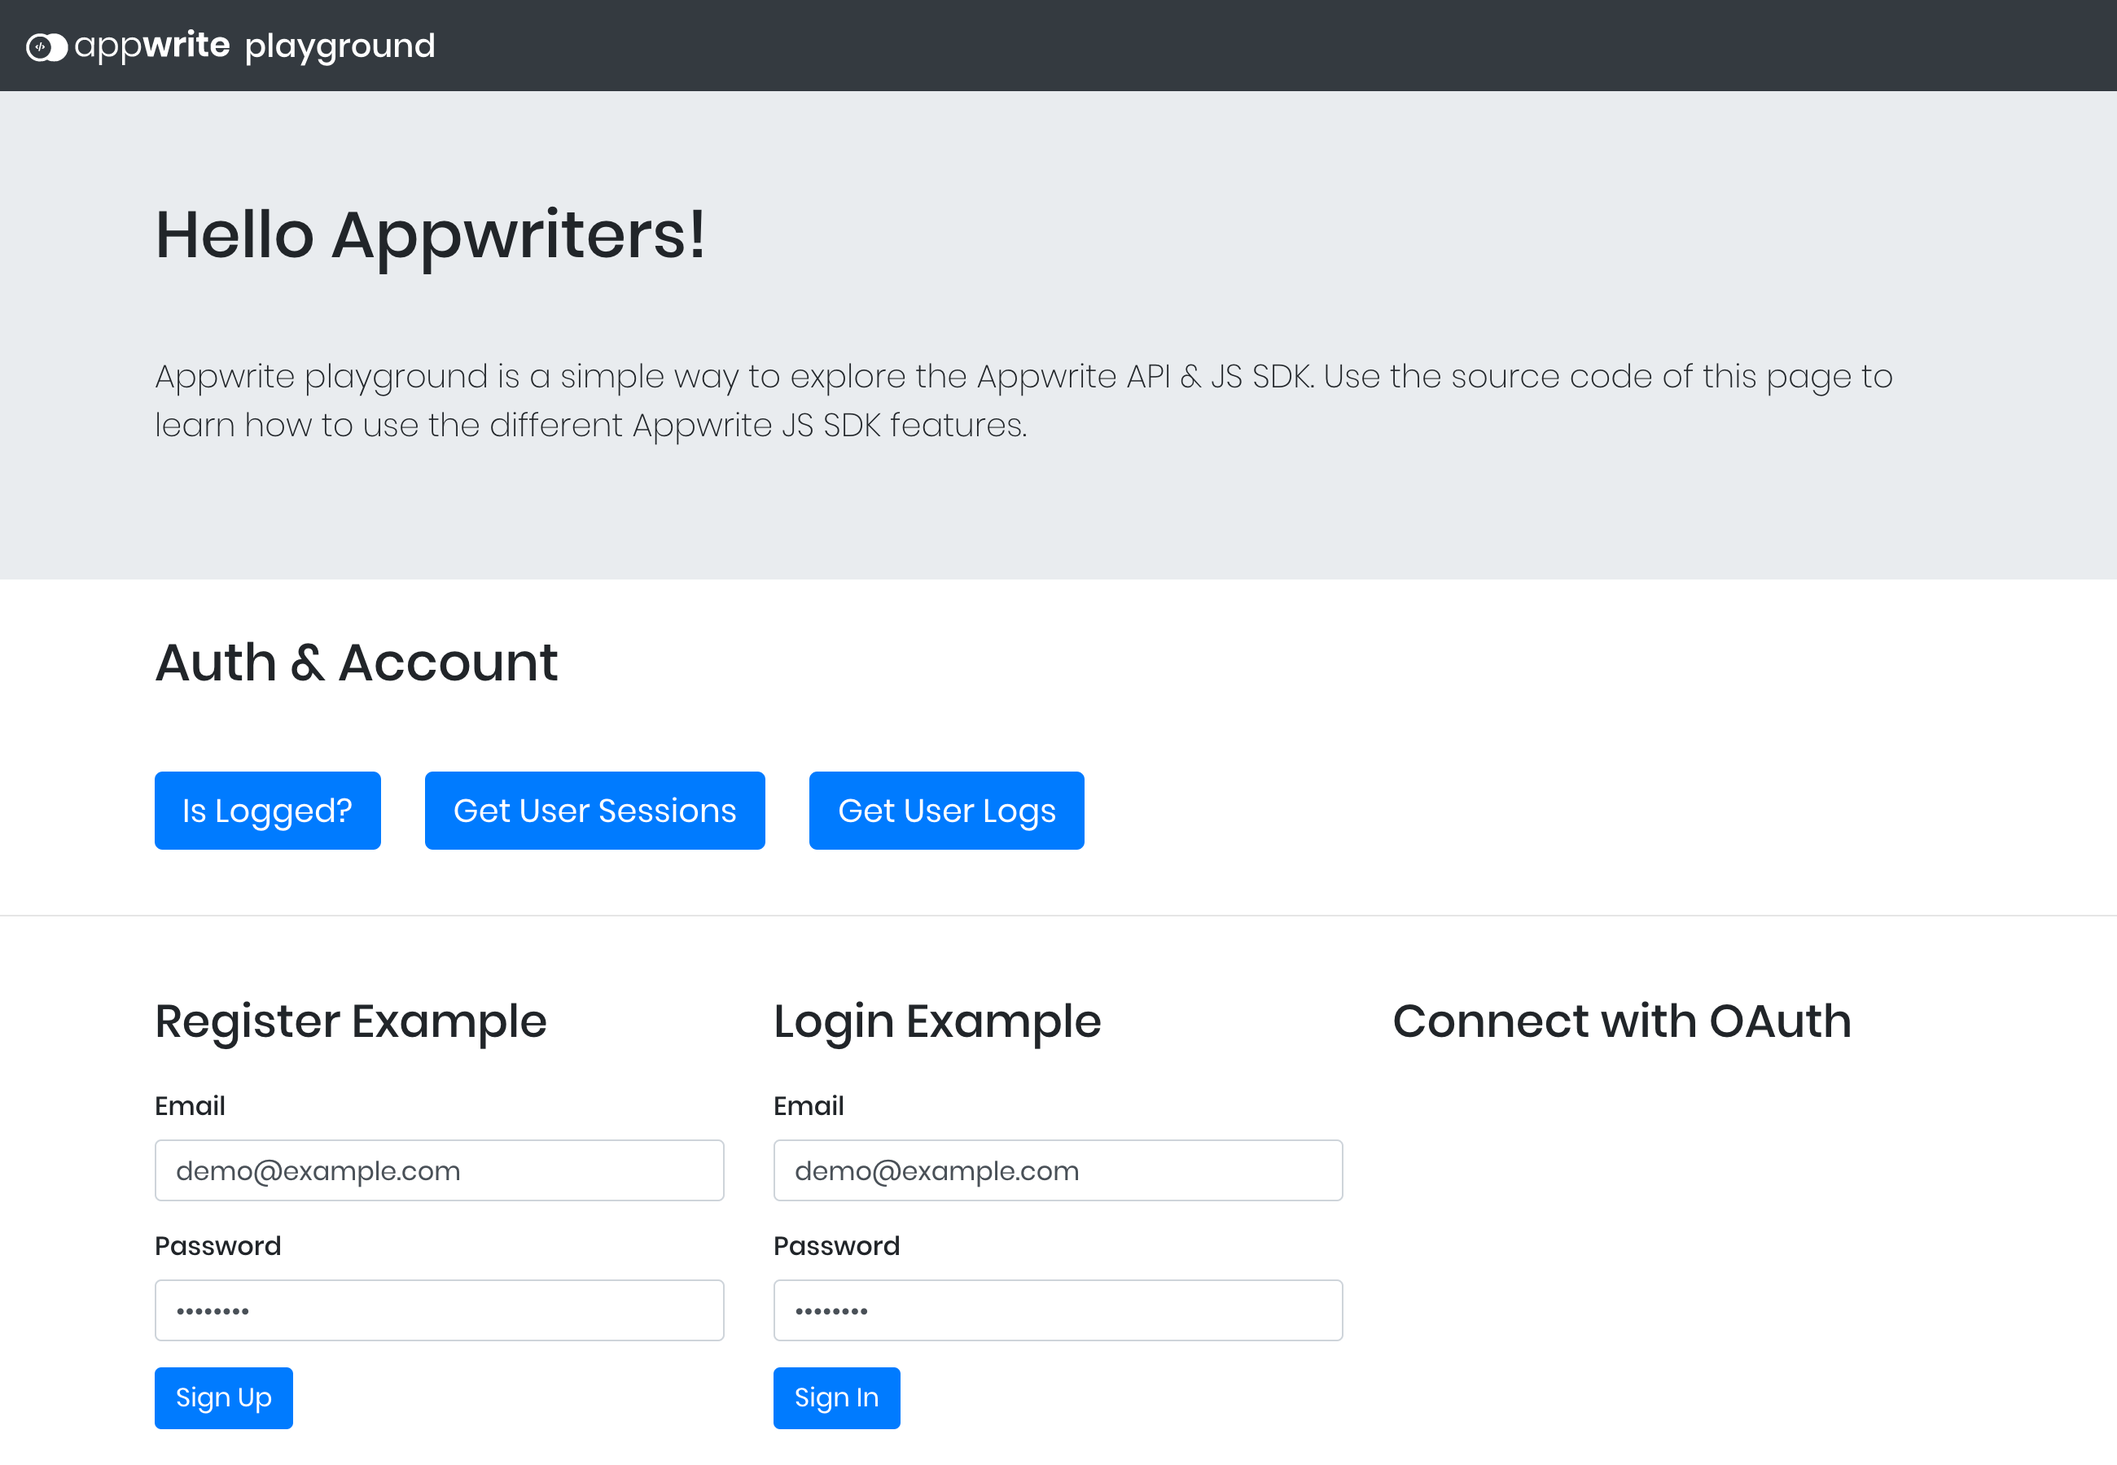
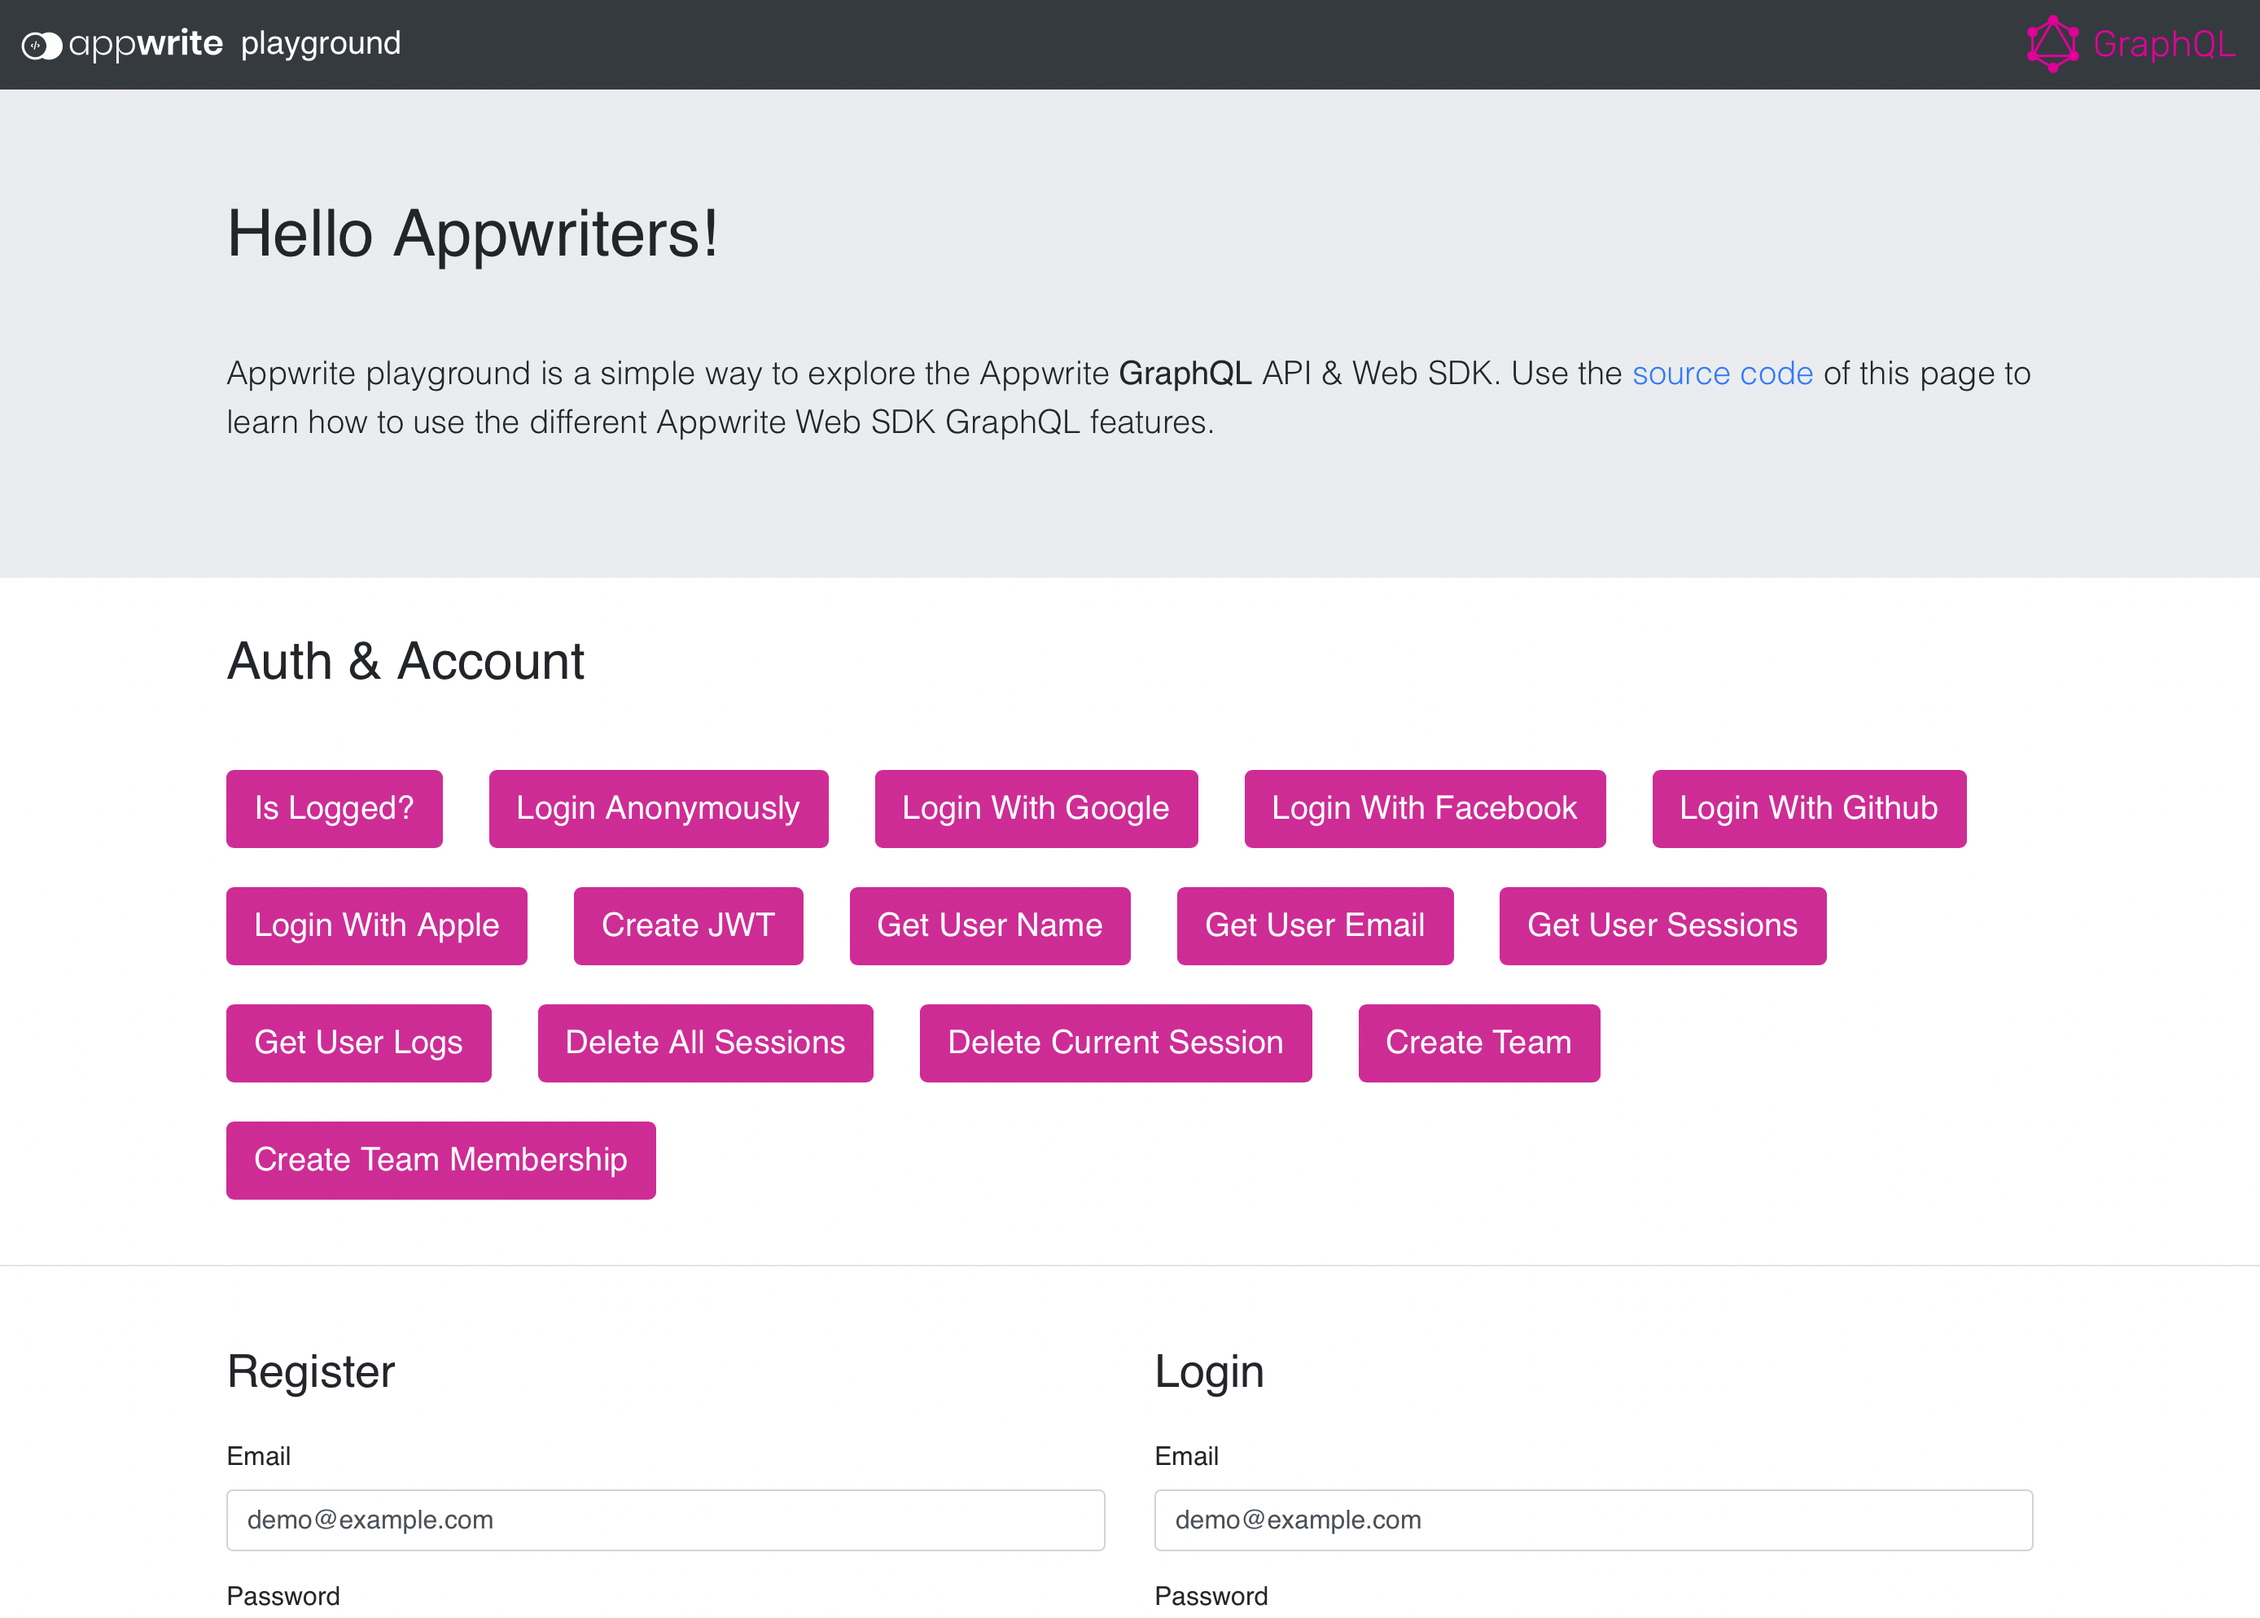
Updates

diff --git a/public/index.html b/public/index.html
@@ -11,6 +11,7 @@
         integrity="sha384-ggOyR0iXCbMQv3Xipma34MD+dH/1fQ784/j6cY/iJTQUOhcWr7x9JvoRxT2MZw1T" crossorigin="anonymous" />
     <link href="https://fonts.googleapis.com/css?family=Poppins:100,300,400,500,600,800" />
     <link rel="icon" type="image/png" href="https://appwrite.io/images/favicon.png?v=1" />
+    <link rel="stylesheet" href="stylesheet.css" />
 
     <style>
         body {
@@ -29,6 +30,7 @@
     <nav class="navbar navbar-dark bg-dark">
         <a class="navbar-brand" href="#"><img src="https://appwrite.io/images/appwrite-white.svg" height="22" />
             &nbsp;playground</a>
+        <a href="https://graphql.org"><img src="images/graphql.svg" height="36"/></a>
     </nav>
     <div class="jumbotron jumbotron-fluid">
         <div class="container">
@@ -36,10 +38,10 @@
             <p class="lead">
                 Appwrite playground is a simple way to explore the Appwrite <b>GraphQL</b> API & Web
                 SDK. Use the
-                <a href="https://github.com/appwrite/playground-for-js/blob/master/public/index.html"
+                <a href="https://github.com/appwrite/playground-for-web-graphql/blob/master/public/index.html"
                     target="_blank">source code</a>
                 of this page to learn how to use the different Appwrite Web SDK
-                features.
+                GraphQL features.
             </p>
         </div>
     </div>
@@ -361,13 +363,7 @@
         }
 
         function loginAnonymously() {
-            graphql.mutate({
-                query: `mutation {
-                    accountCreateAnonymousSession {
-                        _id
-                    }
-                }`
-            }).then(
+            graphql.mutate({ query: `mutation { accountCreateAnonymousSession { _id }}` }).then(
                 function (response) {
                     console.log(response);
                     alert("User logged in anonymously!");
@@ -380,13 +376,7 @@
         }
 
         function createJWT() {
-            graphql.mutate({
-                query: `mutation {
-                    accountCreateJWT {
-                        _id
-                    }
-                }`
-            }).then(
+            graphql.mutate({ query: `mutation { accountCreateJWT { secret }}` }).then(
                 function (response) {
                     console.log(response);
                     alert("JWT created!");
@@ -403,9 +393,7 @@
 
             graphql.mutate({
                 query: `mutation CreateEmailSession ($email: String!, $password: String!) {
-                    accountCreateEmailSession(email: $email, password: $password) {
-                        _id
-                    }
+                    accountCreateEmailSession(email: $email, password: $password) { _id }
                 }`,
                 variables: {
                     email: event.target.elements["login-email"].value,
@@ -427,13 +415,12 @@
         }
 
         function loginWithGoogle(event) {
-            //event.preventDefault();
             /**
              * Callback URLs are required for creating a browser
              *  session cookie due to some browsers 3rd party cookie policy limitations,
              *  this is not required for other client based platforms
              */
-            graphql.mutate({
+            graphql.query({
                 query: `query GoogleLogin ($provider: String!, $success: String, $failure: String) {
                     accountCreateOAuth2Session(provider: $provider, success: $success, failure: $failure)
                 }`,
@@ -460,7 +447,7 @@
              *  session cookie due to some browsers 3rd party cookie policy limitations,
              *  this is not required for other client based platforms
              */
-            graphql.mutate({
+            graphql.query({
                 query: `query FacebookLogin ($provider: String!, $success: String, $failure: String) {
                     accountCreateOAuth2Session(provider: $provider, success: $success, failure: $failure)
                 }`,
@@ -482,13 +469,12 @@
         }
 
         function loginWithGithub(event) {
-            event.preventDefault();
             /**
              * Callback URLs are required for creating a browser
              *  session cookie due to some browsers 3rd party cookie policy limitations,
              *  this is not required for other client based platforms
              */
-            graphql.mutate({
+            graphql.query({
                 query: `query FacebookLogin ($provider: String!, $success: String, $failure: String) {
                     accountCreateOAuth2Session(provider: $provider, success: $success, failure: $failure)
                 }`,
@@ -510,19 +496,14 @@
         }
 
         function loginWithApple(event) {
-            event.preventDefault();
             /**
              * Callback URLs are required for creating a browser
              *  session cookie due to some browsers 3rd party cookie policy limitations,
              *  this is not required for other client based platforms
              */
-            graphql.mutate({
-                query: `mutation AppleLogin (provider: String!, success: String, failure: String) {
-                    accountCreateOAuth2Session(
-                        provider: $provider,
-                        success: $success,
-                        failure: $failure,
-                    )
+            graphql.query({
+                query: `mutation AppleLogin ($provider: String!, $success: String, $failure: String) {
+                    accountCreateOAuth2Session(provider: $provider, success: $success, failure: $failure)
                 }`,
                 variables: {
                     provider: "apple",
@@ -542,11 +523,7 @@
         }
 
         function deleteSessions() {
-            graphql.mutate({
-                query: `mutation {
-                    accountDeleteSessions
-                }`
-            }).then(
+            graphql.mutate({ query: `mutation { accountDeleteSessions }` }).then(
                 function (response) {
                     console.log(response);
                     alert("Sessions deleted!");
@@ -559,11 +536,7 @@
         }
 
         function deleteCurrentSession() {
-            graphql.mutate({
-                query: `mutation {
-                    accountDeleteSession(sessionId: "current")
-                }`
-            }).then(
+            graphql.mutate({ query: `mutation { accountDeleteSession(sessionId: "current") }` }).then(
                 function (response) {
                     console.log(response);
                     alert("Current session deleted!");
@@ -686,10 +659,10 @@
                         };
                         ul.appendChild(li);
                     }
-                    console.log(response); // Success
+                    console.log(response);
                 },
                 function (error) {
-                    console.log(error); // Failure
+                    console.log(error);
                 }
             );
         }
@@ -712,11 +685,11 @@
                 }
             }).then(
                 function (response) {
-                    console.log(response); // Success
+                    console.log(response);
                     alert("File downloaded successfully");
                 },
                 function (error) {
-                    console.log(error); // Failure
+                    console.log(error);
                 }
             );
         }
@@ -731,7 +704,7 @@
                 }`
             }).then(
                 function (response) {
-                    console.log(response); // Success
+                    console.log(response);
                     alert(
                         "User is from " +
                         response.data.localeGet.country +
@@ -740,7 +713,7 @@
                     );
                 },
                 function (error) {
-                    console.log(error); // Failure
+                    console.log(error);
                 }
             );
         }
@@ -754,11 +727,11 @@
                 }`
             }).then(
                 function (response) {
-                    console.log(response); // Success
+                    console.log(response);
                     alert("User IP is " + response.data.localeGet.ip);
                 },
                 function (error) {
-                    console.log(error); // Failure
+                    console.log(error);
                 }
             );
         }
@@ -772,7 +745,7 @@
                 }`
             }).then(
                 function (response) {
-                    console.log(response); // Success
+                    console.log(response);
                     alert(
                         response.data.localeGet.eu
                             ? "User is a member of the EU"
@@ -780,7 +753,7 @@
                     );
                 },
                 function (error) {
-                    console.log(error); // Failure
+                    console.log(error);
                 }
             );
         }

diff --git a/test.js b/test.js
@@ -1,6 +1,6 @@
-const sdk = require('node-appwrite');
+const {Client,Account} = require("./public/sdk");
 
-const client = new sdk.Client();
+const client = new Client();
 
 client
     .setEndpoint('http://localhost/v1') // Your API Endpoint
@@ -8,9 +8,14 @@ client
[1 lines of base64/hex data omitted]
 ;
 
-let users = new sdk.Users(client);
+const account = new Account(client);
 
-let promise = users.get('623b66a849afa34b5d4e');
+let promise = account.create(
+    'unique()',
+    'test@appwrite.io',
+    'passwird',
+    'test'
+)
 
 promise.then(function (response) {
     console.log(response);

diff --git a/public/stylesheet.css b/public/stylesheet.css
@@ -1,0 +1,4 @@
+.btn-primary, .btn-primary:hover, .btn-primary:active, .btn-primary:visited {
+    background-color: #E10098 !important;
+    border-color: #E10098 !important;
+}

diff --git a/README.md b/README.md
@@ -1,1 +1,53 @@
-# playground-for-web-graphql
+# Appwrite's Web Playground with GraphQL
+
+
+Appwrite playground is a simple way to explore the Appwrite API & Web SDK **with GraphQL** . Use the source code of this page to learn how to use the different Appwrite GraphQL API features.
+
+![Appwrite Playground](preview.png)
+
+## Get Started
+
+The **public/index.html** file in this repository contains **all** the playground examples and source code.
+
+You can learn how to integrate your Appwrite Web SDK in your project and see how different features of the GraphQL API can be used via the SDK.
+
+This playground doesn't include any Appwrite best practices but rather intended to show the most simple examples and use cases of using the Appwrite API.
+
+### Installation
+
+`NOTE: Commands are to be executed on Linux, Mac, and Windows(using Powershell)`
+
+1. Fork this repository by clicking on the <a href="https://github.com/appwrite/playground-for-web/new/master?readme=1#fork-destination-box"><kbd><b>Fork</b></kbd></a> button.
+2. Clone the repo by running the command
+```sh
+$ git clone https://github.com/Your_Username/playground-for-web.git
+```
+3. Go inside the folder by command
+```sh
+$ cd playground-for-web-graphql
+```
+4. Run the command to install node modules
+```sh
+$ npm install
+```
+5. Start a web server by running using command
+```sh
+$ npm start
+```
+6. Access the url `http://localhost:8000` and start playing!
+
+> Don't forget to update Appwrite endpoint and project ID
+
+## Contributing
+
+All code contributions - including those of people having commit access - must go through a pull request and approved by a core developer before being merged. This is to ensure proper review of all the code.
+
+We truly ❤ pull requests! If you wish to help, you can learn more about how you can contribute to this project in the [contribution guide](https://github.com/appwrite/appwrite/blob/master/CONTRIBUTING.md).
+
+## Security
+
+For security issues, kindly email us [security@appwrite.io](mailto:security@appwrite.io) instead of posting a public issue in GitHub.
+
+## Follow Us
+
+Join our growing community around the world! Follow us on [Twitter](https://twitter.com/appwrite), [Facebook Page](https://www.facebook.com/appwrite.io), [Facebook Group](https://www.facebook.com/groups/appwrite.developers/) or join our [Discord Server](https://appwrite.io/discord) for more help, ideas and discussions.
